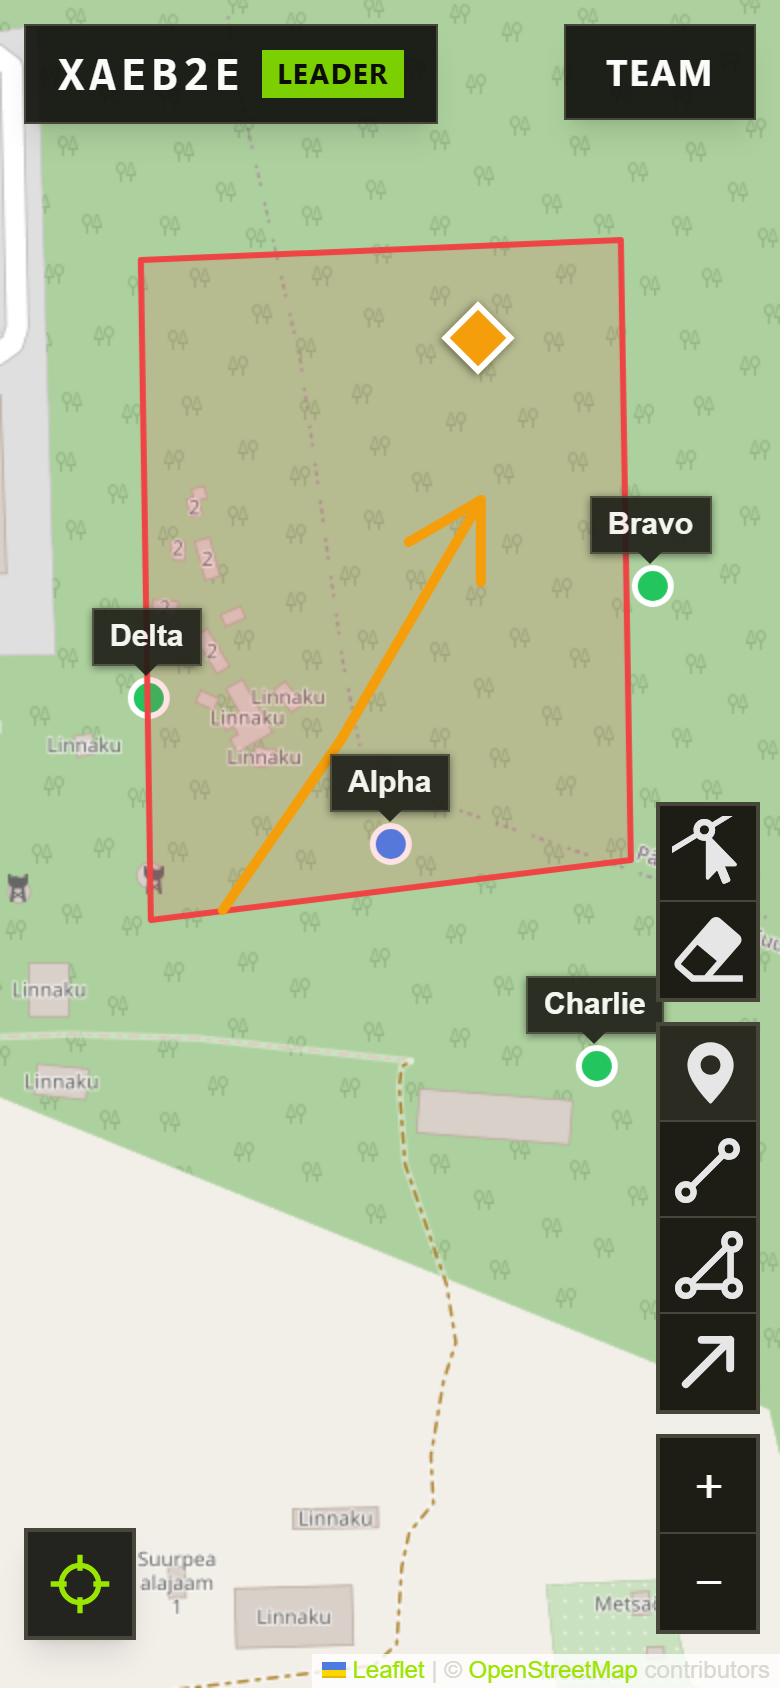
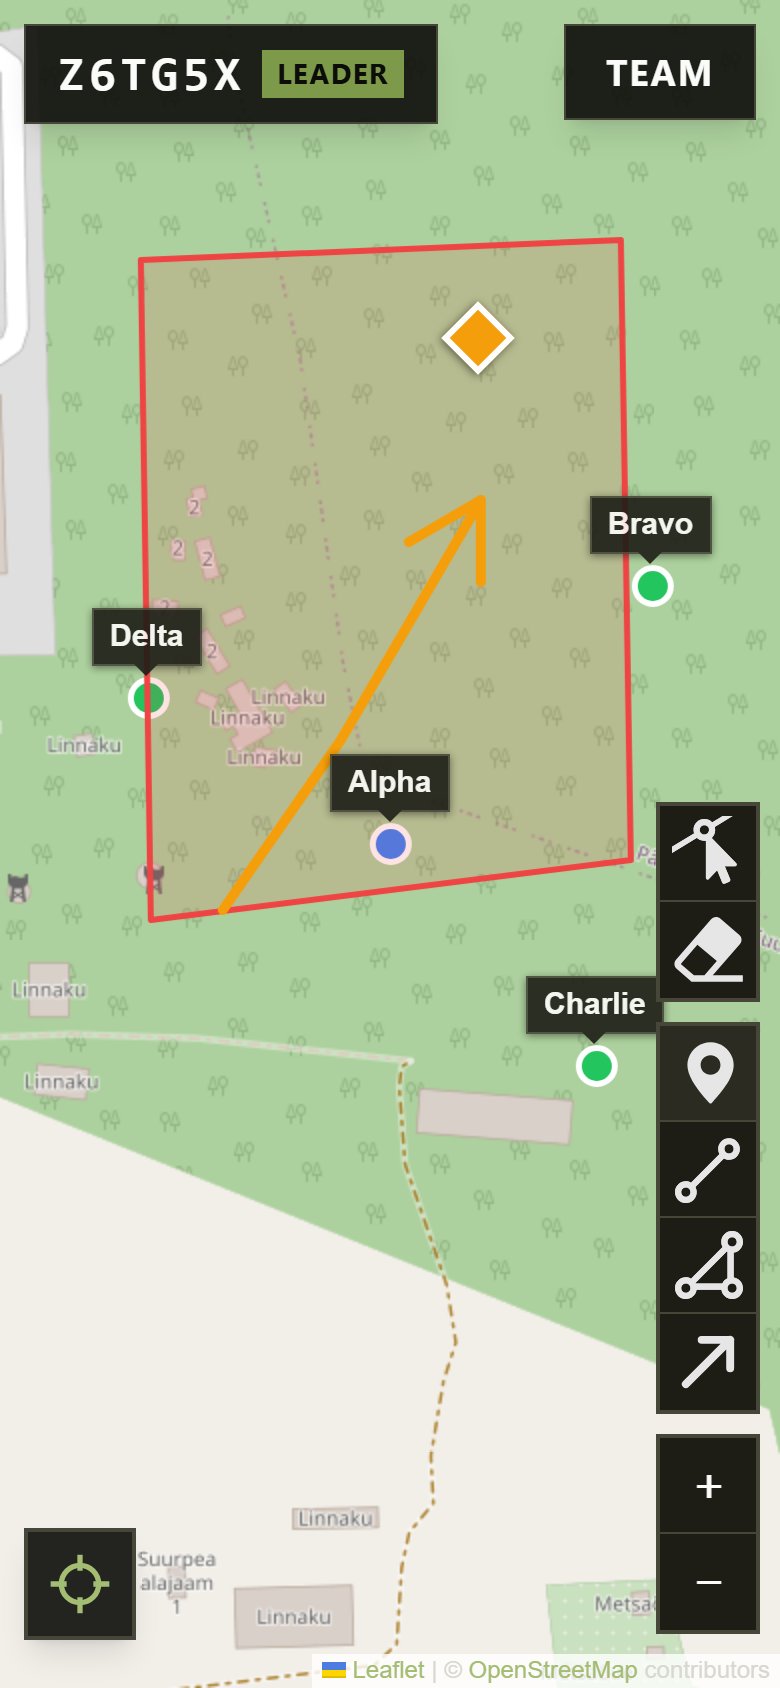
Swap lime for a muted field green accent token

diff --git a/apps/web/src/routes/room/[code]/+page.svelte b/apps/web/src/routes/room/[code]/+page.svelte
@@ -76,7 +76,7 @@
         <div class="pointer-events-auto flex min-h-12 items-center gap-2 border border-olive-700 bg-olive-950/90 px-4 py-2 shadow-lg">
           <span class="font-mono text-2xl font-bold tracking-widest" data-testid="join-code">{code}</span>
           {#if state.isLeader}
-            <span class="bg-lime-500 px-2 py-0.5 text-sm font-bold uppercase tracking-wider text-olive-950">Leader</span>
+            <span class="bg-accent-500 px-2 py-0.5 text-sm font-bold uppercase tracking-wider text-olive-950">Leader</span>
           {/if}
         </div>
         <button
@@ -103,17 +103,17 @@
 
     {#if teamOpen}
       <section
-        class="absolute inset-x-0 bottom-0 z-[1200] flex max-h-[75dvh] flex-col gap-4 overflow-y-auto border-t-4 border-lime-500 bg-olive-950 p-4 pb-[max(1rem,env(safe-area-inset-bottom))] shadow-2xl"
+        class="absolute inset-x-0 bottom-0 z-[1200] flex max-h-[75dvh] flex-col gap-4 overflow-y-auto border-t-4 border-accent-500 bg-olive-950 p-4 pb-[max(1rem,env(safe-area-inset-bottom))] shadow-2xl"
         aria-label="Team"
       >
         <div class="flex items-center justify-between">
           <h2 class="text-xl font-bold uppercase tracking-wider">Team</h2>
-          <button type="button" class="min-h-12 border-2 border-olive-700 px-4 font-bold uppercase tracking-wider text-lime-400 active:bg-olive-800" onclick={() => (teamOpen = false)}>
+          <button type="button" class="min-h-12 border-2 border-olive-700 px-4 font-bold uppercase tracking-wider text-accent-400 active:bg-olive-800" onclick={() => (teamOpen = false)}>
             Close
           </button>
         </div>
         {#if state.isLeader}
-          <p class="text-lime-400">You are the leader. Share the code or QR with your team.</p>
+          <p class="text-accent-400">You are the leader. Share the code or QR with your team.</p>
         {/if}
         <InviteQr {code} />
         <MemberList members={state.members} you={state.memberId} />
@@ -138,7 +138,7 @@
 
     {#if session?.error}
       <p role="alert" class="text-center text-lg text-red-400">{session.error}</p>
-      <a href={resolve('/')} class="flex min-h-12 items-center text-lg text-lime-400 underline">Back to start</a>
+      <a href={resolve('/')} class="flex min-h-12 items-center text-lg text-accent-400 underline">Back to start</a>
     {:else if !name}
       <NameForm onjoin={(n) => (name = n)} />
     {:else}

diff --git a/apps/web/src/lib/slices/templates/TemplateEditor.svelte b/apps/web/src/lib/slices/templates/TemplateEditor.svelte
@@ -100,11 +100,11 @@
         placeholder="Template name"
         aria-label="Template name"
         maxlength="60"
-        class="min-h-12 min-w-0 flex-1 border-2 border-olive-700 bg-olive-900 px-3 text-lg focus:border-lime-500 focus:outline-none"
+        class="min-h-12 min-w-0 flex-1 border-2 border-olive-700 bg-olive-900 px-3 text-lg focus:border-accent-500 focus:outline-none"
       />
       <button
         type="button"
-        class="min-h-12 bg-lime-500 px-5 text-lg font-bold text-olive-950 uppercase tracking-wider active:bg-lime-600 disabled:opacity-60"
+        class="min-h-12 bg-accent-500 px-5 text-lg font-bold text-olive-950 uppercase tracking-wider active:bg-accent-600 disabled:opacity-60"
         disabled={saving}
         onclick={save}
       >
@@ -116,7 +116,7 @@
         role={status.ok ? 'status' : 'alert'}
         class={[
           'pointer-events-auto self-start px-4 py-2 font-semibold shadow-lg',
-          status.ok ? 'bg-lime-500 text-olive-950' : 'bg-red-900/95 text-white',
+          status.ok ? 'bg-accent-500 text-olive-950' : 'bg-red-900/95 text-white',
         ]}
       >
         {status.text}

diff --git a/apps/web/src/app.css b/apps/web/src/app.css
@@ -1,8 +1,15 @@
 @import 'tailwindcss';
 
+/* Signal colour: a muted field green. Used as bg-accent-500, text-accent-400, etc. */
+@theme {
+  --color-accent-400: #a3bd73;
+  --color-accent-500: #7d9a4a;
+  --color-accent-600: #66803a;
+}
+
 /* Mobile-first (CLAUDE.md): one hand, outdoors, maybe gloves. Every target is at least 48px. */
 
-/* Look: olive-tinted dark surfaces, lime as the signal colour, square corners everywhere. */
+/* Look: olive-tinted dark surfaces, field green as the signal colour, square corners everywhere. */
 
 html,
 body {
@@ -35,7 +42,7 @@ body {
   filter: invert(1) brightness(1.4);
 }
 .leaflet-pm-toolbar .button-container.active > a.leaflet-buttons-control-button {
-  background-color: var(--color-lime-500);
+  background-color: var(--color-accent-500);
   box-shadow: none;
 }
 .leaflet-pm-toolbar .button-container.active > a .control-icon {
@@ -56,7 +63,7 @@ body {
   color: var(--color-olive-300);
 }
 .leaflet-container .leaflet-control-attribution a {
-  color: var(--color-lime-400);
+  color: var(--color-accent-400);
 }
 
 .leaflet-control-zoom a,

diff --git a/apps/web/src/lib/slices/rooms/JoinRoomForm.svelte b/apps/web/src/lib/slices/rooms/JoinRoomForm.svelte
@@ -27,7 +27,7 @@
     <span class="text-sm font-bold uppercase tracking-widest text-olive-400">Join code</span>
     <input
       bind:value={code}
-      class="min-h-14 border-2 border-olive-700 bg-olive-900 px-4 text-center font-mono text-2xl uppercase tracking-widest focus:border-lime-500 focus:outline-none"
+      class="min-h-14 border-2 border-olive-700 bg-olive-900 px-4 text-center font-mono text-2xl uppercase tracking-widest focus:border-accent-500 focus:outline-none"
       maxlength="6"
       autocomplete="off"
       autocapitalize="characters"
@@ -40,7 +40,7 @@
   {/if}
   <button
     type="submit"
-    class="min-h-14 border-2 border-lime-500 px-6 text-lg font-bold text-lime-400 uppercase tracking-wider active:bg-lime-500/10 disabled:opacity-60"
+    class="min-h-14 border-2 border-accent-500 px-6 text-lg font-bold text-accent-400 uppercase tracking-wider active:bg-accent-500/10 disabled:opacity-60"
     disabled={!hydrated}
   >
     Join room

diff --git a/apps/web/src/lib/slices/rooms/NameForm.svelte b/apps/web/src/lib/slices/rooms/NameForm.svelte
@@ -23,7 +23,7 @@
     <span class="text-sm font-bold uppercase tracking-widest text-olive-400">Your name</span>
     <input
       bind:value={name}
-      class="min-h-14 border-2 border-olive-700 bg-olive-900 px-4 text-xl focus:border-lime-500 focus:outline-none"
+      class="min-h-14 border-2 border-olive-700 bg-olive-900 px-4 text-xl focus:border-accent-500 focus:outline-none"
       maxlength="24"
       autocomplete="nickname"
       aria-invalid={error !== ''}
@@ -32,7 +32,7 @@
   {#if error}
     <p role="alert" class="text-red-400">{error}</p>
   {/if}
-  <button type="submit" class="min-h-14 bg-lime-500 px-6 text-lg font-bold text-olive-950 uppercase tracking-wider active:bg-lime-600">
+  <button type="submit" class="min-h-14 bg-accent-500 px-6 text-lg font-bold text-olive-950 uppercase tracking-wider active:bg-accent-600">
     Join
   </button>
 </form>

diff --git a/apps/web/src/lib/slices/templates/TemplatePicker.svelte b/apps/web/src/lib/slices/templates/TemplatePicker.svelte
@@ -27,7 +27,7 @@
     <p role="alert" class="text-red-400">{error}</p>
   {:else if templates?.length === 0}
     <p class="text-olive-400">
-      No templates on this device yet. <a href={resolve('/templates')} class="text-lime-400 underline">Create one</a>.
+      No templates on this device yet. <a href={resolve('/templates')} class="text-accent-400 underline">Create one</a>.
     </p>
   {:else if templates}
     {#each templates as template (template.id)}
@@ -37,7 +37,7 @@
         onclick={() => load(template)}
       >
         <span>{template.name}</span>
-        <span class="font-bold uppercase tracking-wider text-lime-400">Load</span>
+        <span class="font-bold uppercase tracking-wider text-accent-400">Load</span>
       </button>
     {/each}
   {/if}

diff --git a/apps/web/src/routes/+page.svelte b/apps/web/src/routes/+page.svelte
@@ -9,7 +9,7 @@
 
 <main class="mx-auto flex min-h-dvh max-w-md flex-col justify-center gap-6 bg-olive-950 p-4 text-olive-50">
   <h1 class="text-center text-3xl font-bold uppercase tracking-wider">
-    <span class="block text-sm tracking-[0.4em] text-lime-400">Airsoft</span>
+    <span class="block text-sm tracking-[0.4em] text-accent-400">Airsoft</span>
     Tactical Map
   </h1>
   <JoinRoomForm />
@@ -19,7 +19,7 @@
   <CreateRoomButton />
   <a
     href={resolve('/templates')}
-    class="flex min-h-12 items-center justify-center text-lg text-lime-400 underline active:text-lime-600"
+    class="flex min-h-12 items-center justify-center text-lg text-accent-400 underline active:text-accent-600"
   >
     Prepare a template
   </a>

diff --git a/apps/web/src/lib/slices/presence/CenterOnMe.svelte b/apps/web/src/lib/slices/presence/CenterOnMe.svelte
@@ -8,7 +8,7 @@
 
 <button
   type="button"
-  class="flex size-14 items-center justify-center border-2 border-olive-700 bg-olive-950/90 text-lime-400 shadow-lg active:bg-olive-800 disabled:text-olive-500"
+  class="flex size-14 items-center justify-center border-2 border-olive-700 bg-olive-950/90 text-accent-400 shadow-lg active:bg-olive-800 disabled:text-olive-500"
   aria-label="Center on me"
   disabled={!position}
   onclick={() => position && map.setView(toLatLng(position), Math.max(map.getZoom(), FIELD_ZOOM))}

diff --git a/apps/web/src/lib/slices/rooms/MemberList.svelte b/apps/web/src/lib/slices/rooms/MemberList.svelte
@@ -9,7 +9,7 @@
   {#each members as member (member.id)}
     <li class="flex min-h-12 items-center gap-3 border-l-4 border-olive-700 bg-olive-900 px-4">
       <span
-        class={['size-3 ', member.online ? 'bg-lime-400' : 'bg-olive-600']}
+        class={['size-3 ', member.online ? 'bg-accent-400' : 'bg-olive-600']}
         aria-label={member.online ? 'online' : 'offline'}
       ></span>
       <span class="text-lg">{member.name}</span>

diff --git a/apps/web/src/lib/slices/templates/TemplateList.svelte b/apps/web/src/lib/slices/templates/TemplateList.svelte
@@ -28,7 +28,7 @@
 
 <a
   href={resolve('/templates/[id]', { id: 'new' })}
-  class="flex min-h-14 items-center justify-center bg-lime-500 px-6 text-lg font-bold text-olive-950 uppercase tracking-wider active:bg-lime-600"
+  class="flex min-h-14 items-center justify-center bg-accent-500 px-6 text-lg font-bold text-olive-950 uppercase tracking-wider active:bg-accent-600"
 >
   New template
 </a>

diff --git a/apps/web/src/lib/slices/rooms/CreateRoomButton.svelte b/apps/web/src/lib/slices/rooms/CreateRoomButton.svelte
@@ -29,7 +29,7 @@
 
 <button
   type="button"
-  class="min-h-14 w-full bg-lime-500 px-6 text-lg font-bold text-olive-950 uppercase tracking-wider active:bg-lime-600 disabled:opacity-60"
+  class="min-h-14 w-full bg-accent-500 px-6 text-lg font-bold text-olive-950 uppercase tracking-wider active:bg-accent-600 disabled:opacity-60"
   disabled={busy || !hydrated}
   onclick={create}
 >
